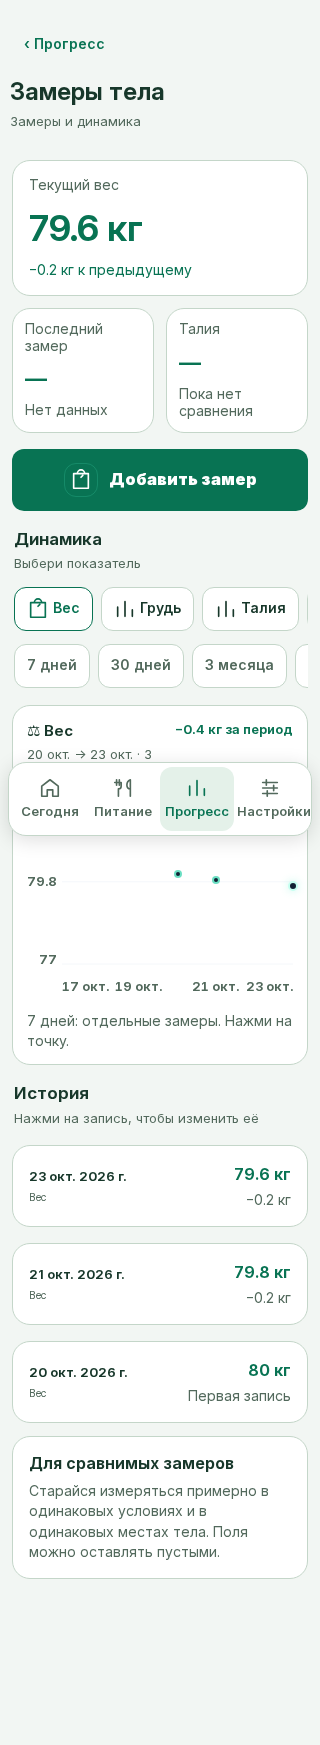
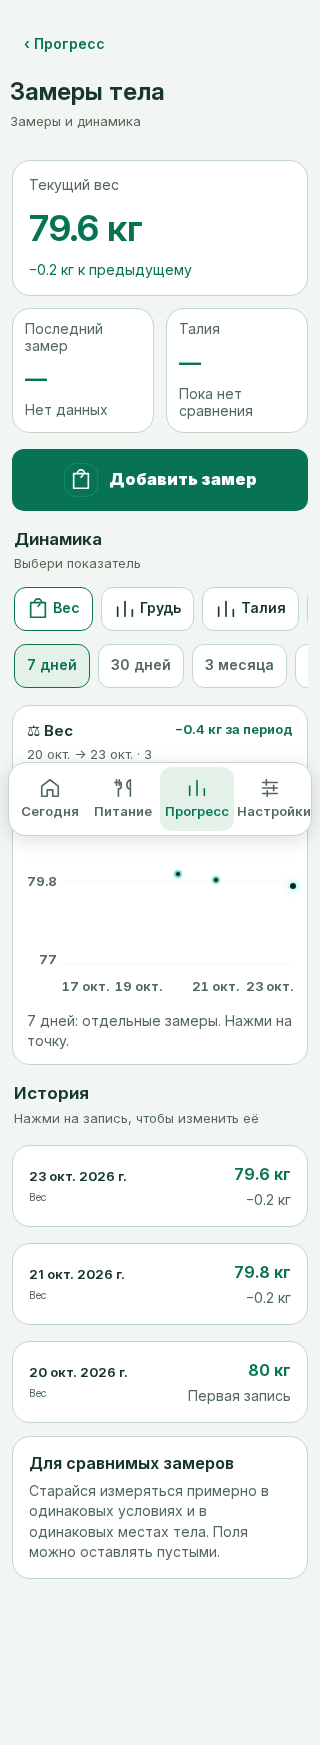
Make selected periods distinct and collect the full browser verification matrix

Changed region(s): [[0.0312, 0.3713, 0.2812, 0.4023]]

diff --git a/design-system.css b/design-system.css
@@ -102,3 +102,4 @@ summary{min-height:44px;cursor:pointer;align-content:center;font-size:14px;font-
 /* Annual overview is intentionally dense; month editors keep full touch targets. */
 .alcohol-year-grid .shared-calendar-grid .shared-day{min-height:0}
 #moduleContent>.shared-calendar{margin-inline:-8px}
+.trend-range-tabs button.secondary,.body-range-tabs button.secondary{background:var(--soft);color:var(--green);border-color:var(--green)}

diff --git a/body.js b/body.js
@@ -434,7 +434,7 @@ function renderBody(){
     ['bodyRangeAllBtn','all']
   ].forEach(([id,value])=>{
     const el=document.getElementById(id);
-    if(el)el.className=bodyRangeDays===value?'secondary':'ghost';
+    if(el){el.className=bodyRangeDays===value?'secondary':'ghost';el.setAttribute('aria-pressed',String(bodyRangeDays===value))}
   });
 
   const chart=document.getElementById('bodyChartHost');

diff --git a/app.js b/app.js
@@ -1227,7 +1227,7 @@ function renderTrends(){
   ];
   buttons.forEach(([id,value])=>{
     const el=document.getElementById(id);
-    if(el)el.className=trendRangeDays===value?'secondary':'ghost';
+    if(el){el.className=trendRangeDays===value?'secondary':'ghost';el.setAttribute('aria-pressed',String(trendRangeDays===value))}
   });
 
   const tabs=document.getElementById('trendMetricTabs');

diff --git a/docs/ux-review/VALIDATION.md b/docs/ux-review/VALIDATION.md
@@ -6,7 +6,7 @@ Baseline: `main` 5ec2e39 (7.3.2). Latest five main commits inspected; no open PR
 
 - Baseline `npm test`: 113 passed.
 - Revised `npm test`: 116 passed, including historical protein source combinations, blocking the legacy writer, failed-save feedback and repeated Save taps.
-- Playwright: Chromium desktop and iPhone-emulated Chromium; complete suite plus the added contrast check. 70 checks passed in the complete Chromium run (35 per project). The final contrast regression passed in both Chromium projects, and the compact Alcohol-year regression passed in both projects, giving 74 successful Chromium checks across the suite and the added checks. The default command then stopped on WebKit launch because host libraries are unavailable.
+- Playwright: Chromium desktop and iPhone-emulated Chromium; complete suite plus the added contrast check. 70 checks passed in the complete Chromium run (35 per project). The final contrast regression passed in both Chromium projects, and the compact Alcohol-year regression passed in both projects, and the selected-period regression passed in both projects, giving 76 successful Chromium checks across the suite and added checks. The default command then stopped on WebKit launch because host libraries are unavailable.
 - Widths: 320, 360, 375, 390, 414px; English/Russian; dark/light; main screens and food editor, plus a dedicated Body matrix.
 - Focus-visible and 44px main controls; 16px fields; contrast checks for controls/headings/labels. Visual inspection corrected low-contrast light chart labels and narrow calendar targets.
 - Food save/edit/delete, partial and over-100% rings, frequent-food reuse, scaling and copy-day behaviour.
@@ -31,3 +31,5 @@ No storage code/schema/key changes. No personal data in fixtures or screenshots.
 ## CI follow-up
 
 The first remote run stopped during the existing IndexedDB fallback test with a DevTools execution-context error. The trace showed no navigation request. The test now starts the same two concurrent saves and polls their completion results instead of holding two long-lived DevTools Promise handles. Both results must still be true and the merged records must still survive reload. Application storage logic is unchanged. This version passed 20 local repetitions across desktop/mobile Chromium; remote Chromium/WebKit verification is rerun on the updated head.
+
+CI now collects the complete browser matrix even when a case fails (`maxFailures: 0` only in CI). Assertions are unchanged and no automatic retries are added; local runs retain early stopping. Selected periods also have visible active styling and `aria-pressed` regression coverage.

diff --git a/docs/ux-review/CHANGED_FILES.md b/docs/ux-review/CHANGED_FILES.md
@@ -43,3 +43,4 @@ Relative to main 5ec2e39 (7.3.2).
 - `today.css`
 - `ui.js`
 - `docs/ux-review/CHANGED_FILES.md`
+- `playwright.config.cjs`
